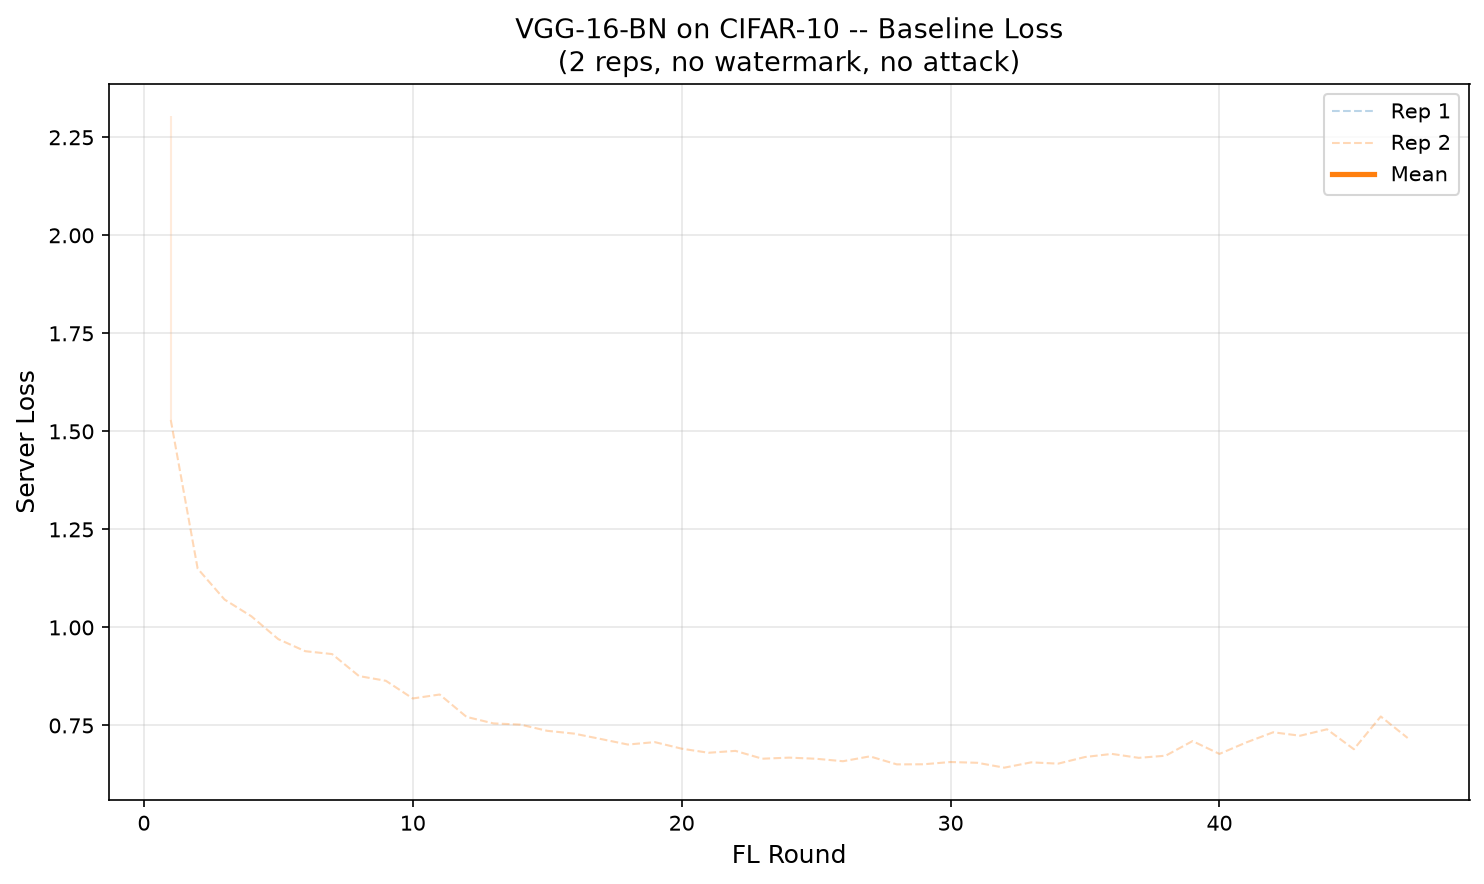
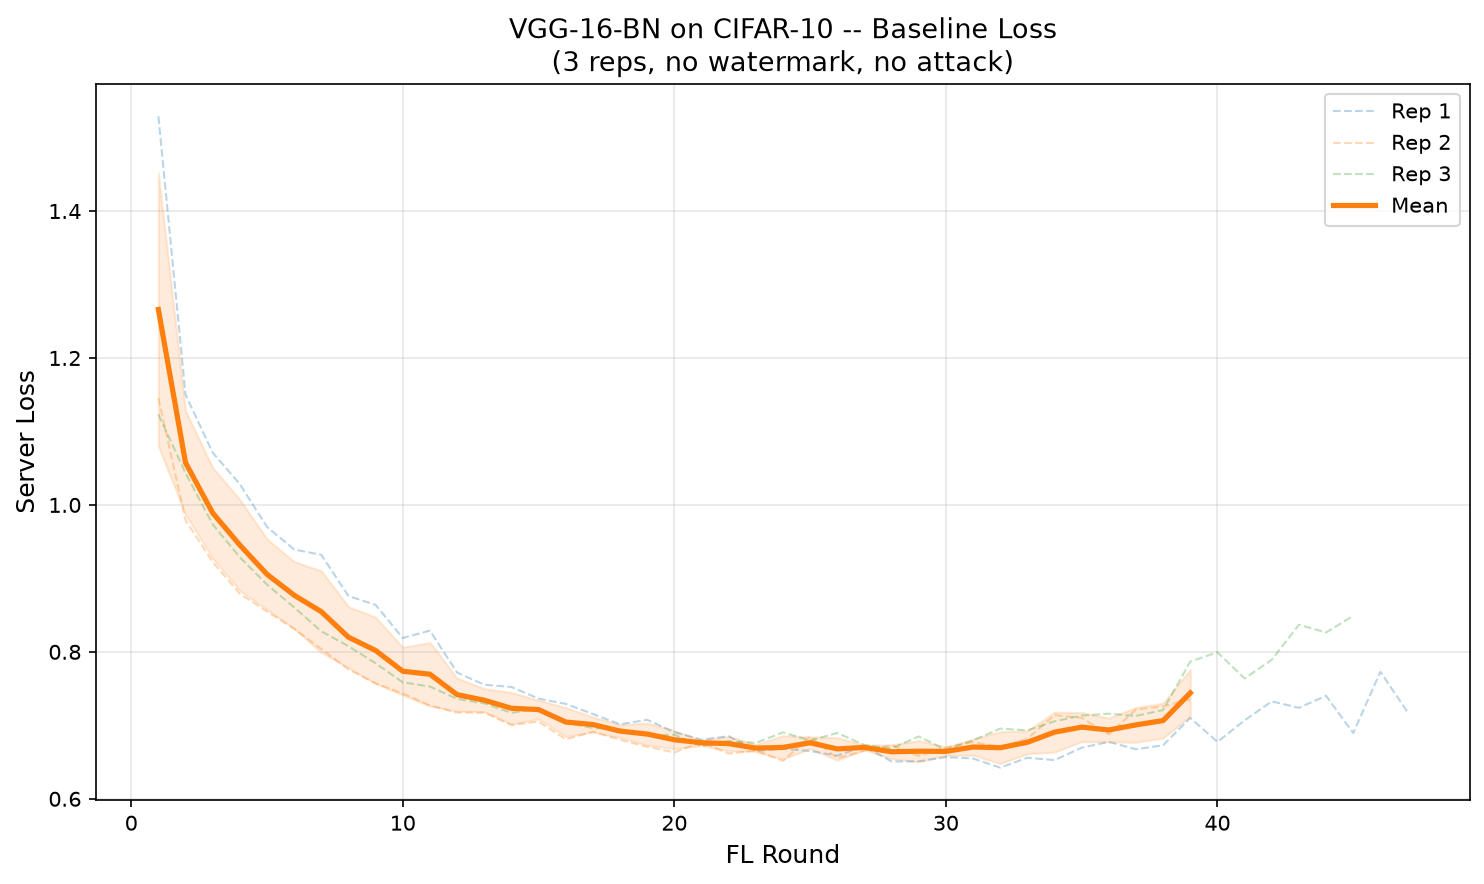
feat: cosine LR scheduler + features.7.weight watermark for CIFAR-100 v2
- Add cosine LR scheduler to server pretrain and per-round FL decay
- New config: lr-scheduler, lr-min (default: none, 0.0001)
- Watermark layer: features.7.weight (Conv2d(64,128), 73K params)
- LR logged in pretrain CSV
- CIFAR-10 plots: filter out <10-round test runs

diff --git a/pytorchexample/watermarked_strategy.py b/pytorchexample/watermarked_strategy.py
@@ -1,4 +1,5 @@
 import io
+import math
 import time
 from logging import INFO
 
@@ -21,6 +22,10 @@ class WatermarkedFedAvg(FedAvg):
         defense_method="mad",
         mad_alpha=3.0,
         metrics_saver=None,
+        lr_scheduler="none",
+        lr_min=0.0,
+        lr_max=0.01,
+        lr_total_rounds=100,
         **kwargs,
     ):
         super().__init__(**kwargs)
@@ -31,6 +36,10 @@ class WatermarkedFedAvg(FedAvg):
         self.defense_method = defense_method
         self.mad_alpha = mad_alpha
         self.metrics = metrics_saver or MetricsSaver()
+        self.lr_scheduler = lr_scheduler
+        self.lr_min = lr_min
+        self.lr_max = lr_max
+        self.lr_total_rounds = lr_total_rounds
 
     def _mad_threshold(self, bes):
         """Dynamic per-round threshold: median + alpha * MAD (Median Absolute Deviation).
@@ -165,6 +174,15 @@ class WatermarkedFedAvg(FedAvg):
         for current_round in range(1, num_rounds + 1):
             log(INFO, "")
             log(INFO, "[ROUND %s/%s]", current_round, num_rounds)
+
+            # Per-round LR schedule
+            if self.lr_scheduler == "cosine":
+                current_lr = self.lr_min + 0.5 * (self.lr_max - self.lr_min) * (
+                    1 + math.cos(math.pi * current_round / self.lr_total_rounds)
+                )
+                train_config["lr"] = current_lr
+                if current_round == 1 or current_round % 10 == 0 or current_round == num_rounds:
+                    log(INFO, "  LR: %.6f (round %d/%d)", current_lr, current_round, self.lr_total_rounds)
 
             train_replies = grid.send_and_receive(
                 messages=self.configure_train(current_round, arrays, train_config, grid),

diff --git a/pytorchexample/task.py b/pytorchexample/task.py
@@ -243,7 +243,7 @@ def compute_asr(net, testloader, source_class, target_class, device):
     return success / total if total > 0 else 0.0
 
 
-def pretrain_with_watermark(net, trainloader, watermark, epochs, lr, device, lambda_reg=0.01, weight_decay=0.0):
+def pretrain_with_watermark(net, trainloader, watermark, epochs, lr, device, lambda_reg=0.01, weight_decay=0.0, lr_scheduler="none", lr_min=0.0):
     """Pretrain the model with task loss + watermark regularization.
 
     Returns a list of per-epoch dicts:
@@ -254,6 +254,9 @@ def pretrain_with_watermark(net, trainloader, watermark, epochs, lr, device, lam
     net.to(device)
     criterion = torch.nn.CrossEntropyLoss().to(device)
     optimizer = torch.optim.SGD(net.parameters(), lr=lr, momentum=0.9, weight_decay=weight_decay)
+    scheduler = None
+    if lr_scheduler == "cosine":
+        scheduler = torch.optim.lr_scheduler.CosineAnnealingLR(optimizer, T_max=epochs, eta_min=lr_min)
     scaler = torch.amp.GradScaler("cuda") if device.type == "cuda" else None
     net.train()
 
@@ -285,12 +288,16 @@ def pretrain_with_watermark(net, trainloader, watermark, epochs, lr, device, lam
             total_wm += wm_loss.item()
             n_batches += 1
 
+        if scheduler is not None:
+            scheduler.step()
+
         per_epoch.append({
             "epoch": epoch + 1,
             "task_loss": total_task / n_batches,
             "watermark_loss": total_wm / n_batches,
             "total_loss": (total_task + lambda_reg * total_wm) / n_batches,
             "watermark_ber": watermark.compute_ber(net),
+            "lr": optimizer.param_groups[0]["lr"],
         })
 
     return per_epoch

diff --git a/pytorchexample/server_app.py b/pytorchexample/server_app.py
@@ -56,15 +56,19 @@ def main(grid: Grid, context: Context) -> None:
     pretrain_loader = load_server_pretrain_data(num_samples=server_private_samples, batch_size=64)
 
     wd = cfg["weight-decay"]
-    log(INFO, "Pretraining with watermark regularization (λ=%.4f, %d epochs)...", wm_lambda, pt_epochs)
+    lr_scheduler = cfg.get("lr-scheduler", "none")
+    lr_min = cfg.get("lr-min", 0.0)
+    log(INFO, "Pretraining with watermark regularization (λ=%.4f, %d epochs, lr_sched=%s)...", wm_lambda, pt_epochs, lr_scheduler)
     pretrain_metrics = server_pretrain(
         global_model, pretrain_loader, watermark, pt_epochs, lr, device,
         lambda_reg=wm_lambda, weight_decay=wd,
+        lr_scheduler=lr_scheduler, lr_min=lr_min,
     )
 
     for m in pretrain_metrics:
         metrics_saver.add_pretrain(
             m["epoch"], m["task_loss"], m["watermark_loss"], m["total_loss"], m["watermark_ber"],
+            lr=m.get("lr"),
         )
     final_ber = pretrain_metrics[-1]["watermark_ber"] if pretrain_metrics else watermark.compute_ber(global_model)
     log(INFO, "Pretrain done — BER = %.4f, Loss = %.4f", final_ber, pretrain_metrics[-1]["total_loss"])
@@ -89,6 +93,10 @@ def main(grid: Grid, context: Context) -> None:
         defense_method=cfg.get("defense-method", "mad"),
         mad_alpha=cfg.get("mad-alpha", 3.0),
         metrics_saver=metrics_saver,
+        lr_scheduler=lr_scheduler,
+        lr_min=lr_min,
+        lr_max=lr,
+        lr_total_rounds=num_rounds,
     )
 
     # Define global evaluation function (captures context via closure)

diff --git a/pytorchexample/metrics.py b/pytorchexample/metrics.py
@@ -57,13 +57,14 @@ class MetricsSaver:
             "eval_loss": eval_loss,
         })
 
-    def add_pretrain(self, epoch, task_loss, watermark_loss, total_loss, watermark_ber):
+    def add_pretrain(self, epoch, task_loss, watermark_loss, total_loss, watermark_ber, lr=None):
         self.pretrain_rows.append({
             "epoch": epoch,
             "task_loss": task_loss,
             "watermark_loss": watermark_loss,
             "total_loss": total_loss,
             "watermark_ber": watermark_ber,
+            "lr": lr,
         })
 
     def _ensure_dir(self):

diff --git a/utility scripts/plot_cifar10_vgg16.py b/utility scripts/plot_cifar10_vgg16.py
@@ -46,7 +46,7 @@ def find_vgg16_cifar10_runs(runs, watermark_lambda=0):
     return matched
 
 
-def load_server_csv(run_id):
+def load_server_csv(run_id, min_rounds=10):
     path = RESULTS_DIR / f"run_{run_id}_server.csv"
     if not path.exists():
         return None
@@ -56,6 +56,8 @@ def load_server_csv(run_id):
             rounds.append(int(row["round"]))
             accs.append(float(row["server_acc"]) * 100)
             losses.append(float(row["server_loss"]))
+    if len(rounds) < min_rounds:
+        return None
     return rounds, accs, losses
 
 
